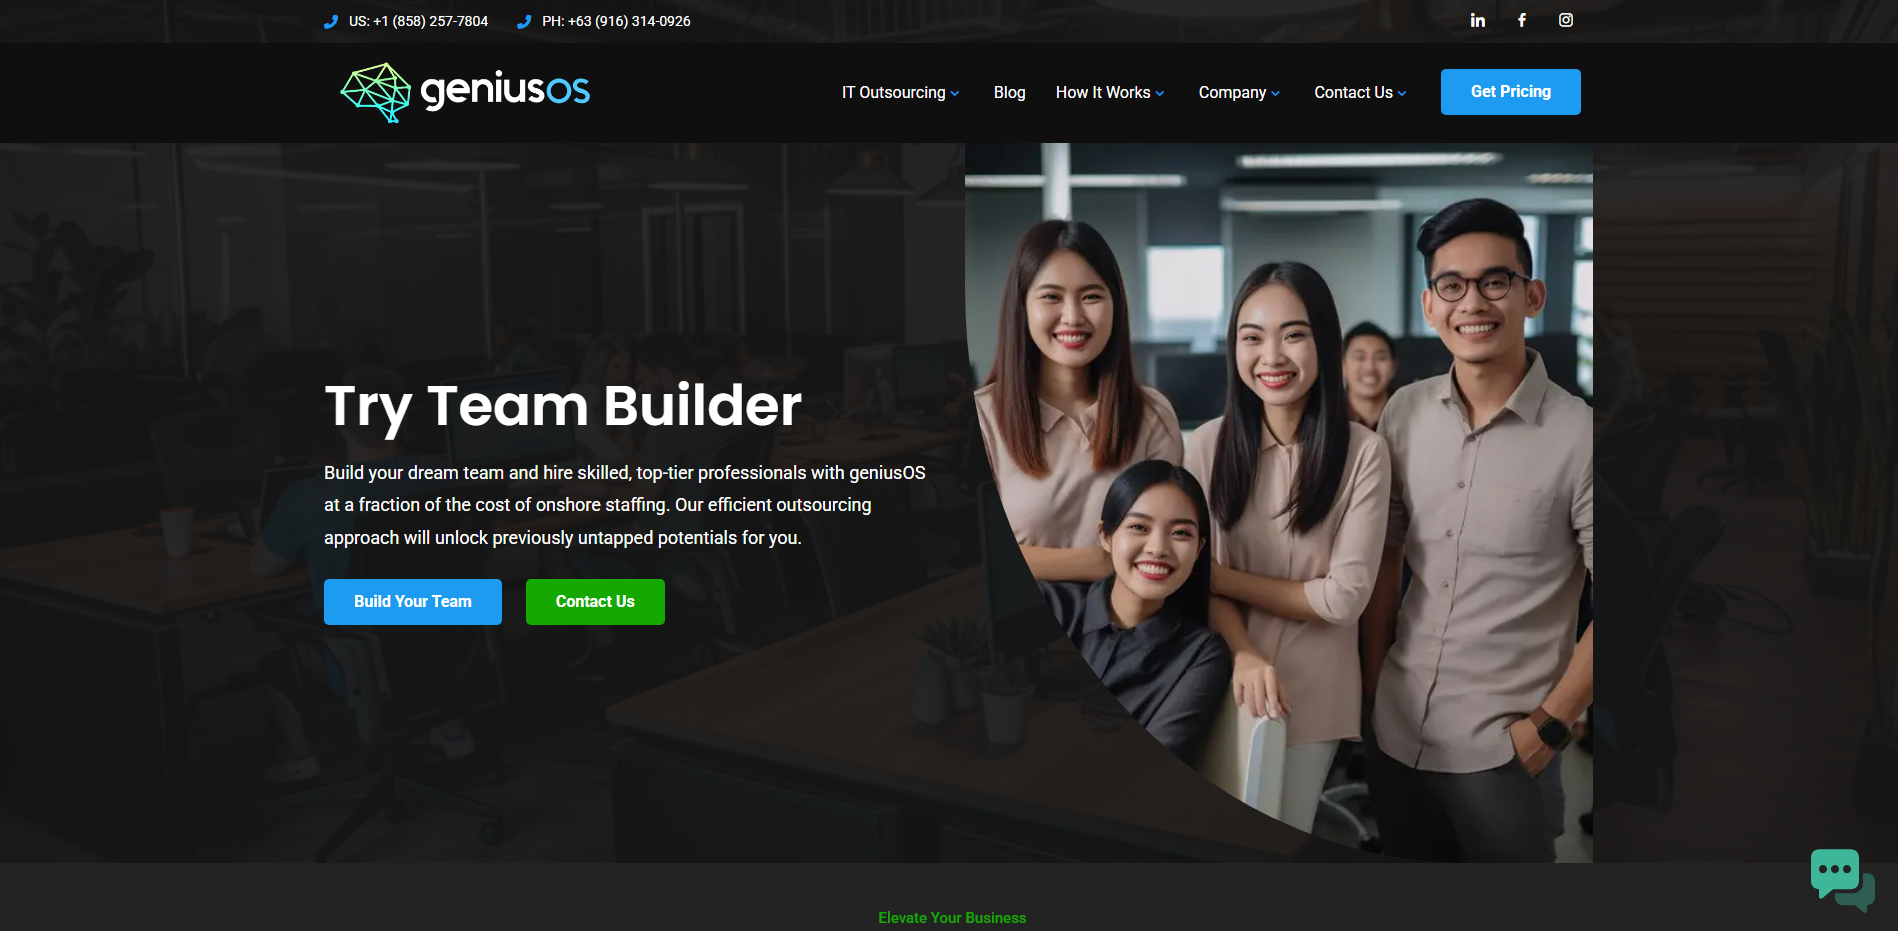
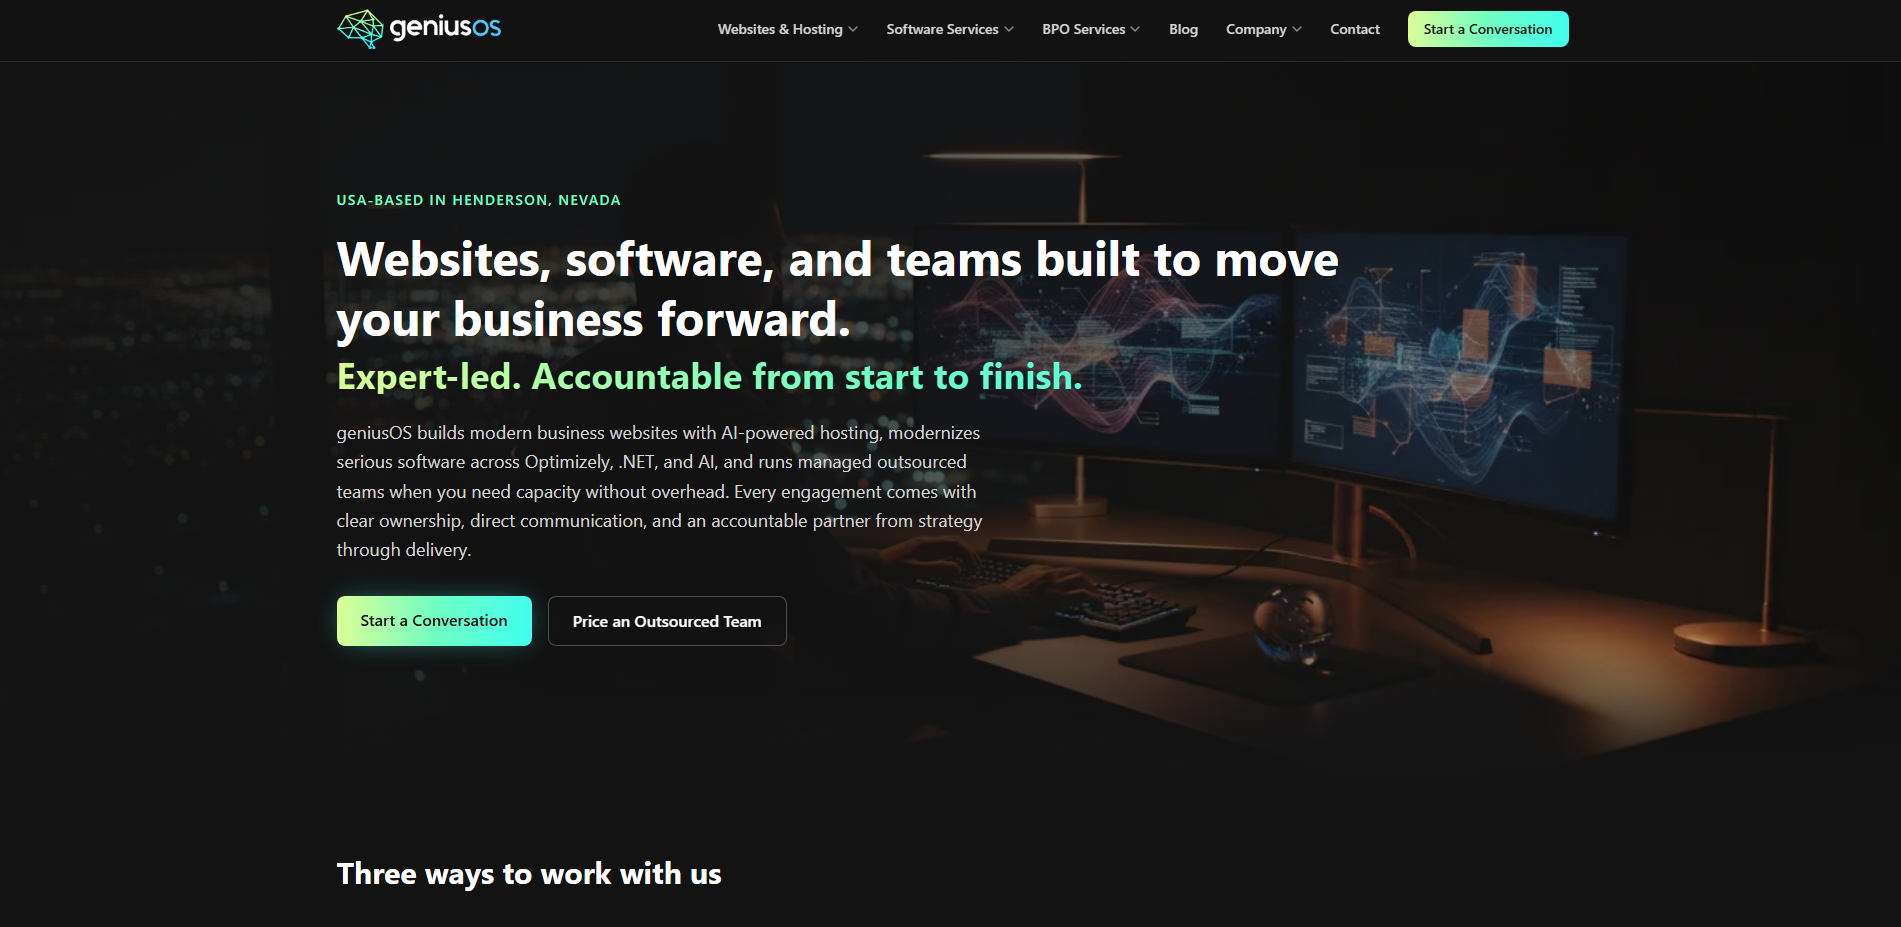
commit

diff --git a/src/App.jsx b/src/App.jsx
@@ -26,13 +26,12 @@ import { AiOutlineLink } from "react-icons/ai";
 import { FaReact, FaNodeJs, FaWordpress } from "react-icons/fa";
 import profileImage from "./assets/profile.png";
 
-import playsafe88Shot from "./assets/sites/playsafe88.png";
 import geniusosPlatformShot from "./assets/sites/geniusos-platform.png";
 import vintageLetterShot from "./assets/sites/vintage-letter-co.png";
 import crownHoldemShot from "./assets/sites/crown-holdem.png";
 import stingrayPaymentsShot from "./assets/sites/stingray-city-payments.png";
-import dartOfRositaShot from "./assets/sites/d-art-of-rosita.png";
 import cryptoxShot from "./assets/sites/cryptox-platform.png";
+import theorekaShot from "./assets/sites/theoreka.png";
 
 /* ----------------------------------------------------------------------
    This build is a "level select" scroll experience: six full-viewport
@@ -74,33 +73,15 @@ const PORTFOLIO_ITEMS = [
   },
   {
     fig: "02",
-    url: "#",
-    title: "D' Art of Rosita",
+    url: "https://app.theoreka.com/login",
+    title: "Theoreka",
     description:
-      "Dynamic web application featuring responsive modern styling and robust backend integration for seamless data management.",
-    tech: ["React", "Vite", "SCSS", "Supabase"],
-    screenshot: dartOfRositaShot,
+      "Full-stack platform with a secure login and authenticated app experience, built for reliable day-to-day use.",
+    tech: ["React", "Node.js", "Auth"],
+    screenshot: theorekaShot,
   },
   {
     fig: "03",
-    url: "http://playsafe88.com/",
-    title: "Playsafe88",
-    description:
-      "Custom high-performance casino forum and community platform built for speed, clarity, and stable user flows.",
-    tech: ["React", "Python", "Performance"],
-    screenshot: playsafe88Shot,
-  },
-  {
-    fig: "04",
-    url: "#",
-    title: "FeedScrapper AI",
-    description:
-      "Automated content migration tool utilizing local LLM workflows for structured parsing and transformation.",
-    tech: ["React", "Python", "Ollama AI"],
-    screenshot: null,
-  },
-  {
-    fig: "05",
     url: "https://geniusos.co/",
     title: "geniusOS Platform",
     description:
@@ -109,16 +90,7 @@ const PORTFOLIO_ITEMS = [
     screenshot: geniusosPlatformShot,
   },
   {
-    fig: "06",
-    url: "https://t.me/vip_reward_bot",
-    title: "VIP Rewards Telegram Bot",
-    description:
-      "Automated referral logic and persistent data handling deployed on DigitalOcean for reliable user automation.",
-    tech: ["Node.js", "Telegram API", "MongoDB"],
-    screenshot: null,
-  },
-  {
-    fig: "07",
+    fig: "04",
     url: "https://vintageletter.co/",
     title: "Vintage Letter Co.",
     description:
@@ -127,7 +99,7 @@ const PORTFOLIO_ITEMS = [
     screenshot: vintageLetterShot,
   },
   {
-    fig: "08",
+    fig: "05",
     url: "https://crownholdem.com/",
     title: "Crown Holdem",
     description:
@@ -136,7 +108,7 @@ const PORTFOLIO_ITEMS = [
     screenshot: crownHoldemShot,
   },
   {
-    fig: "09",
+    fig: "06",
     url: "https://stingraycitypayment.com/",
     title: "Stingray City Payments",
     description:
